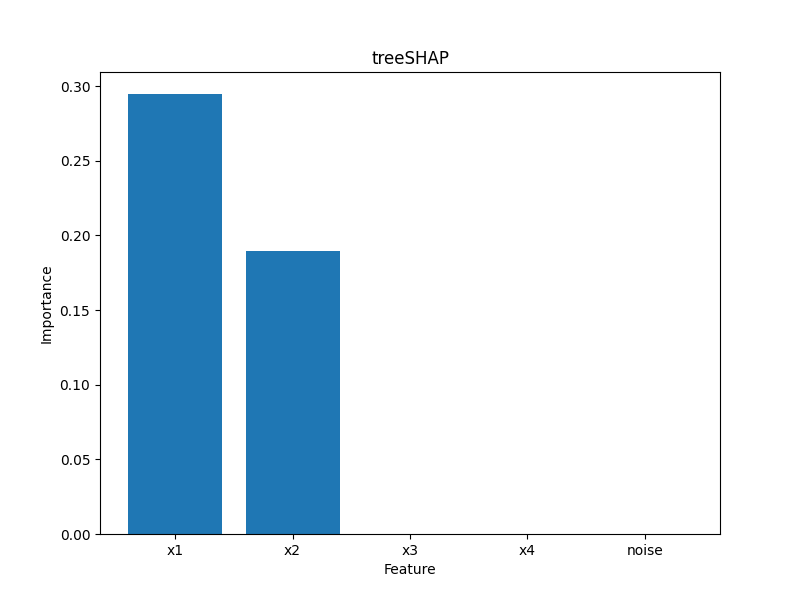
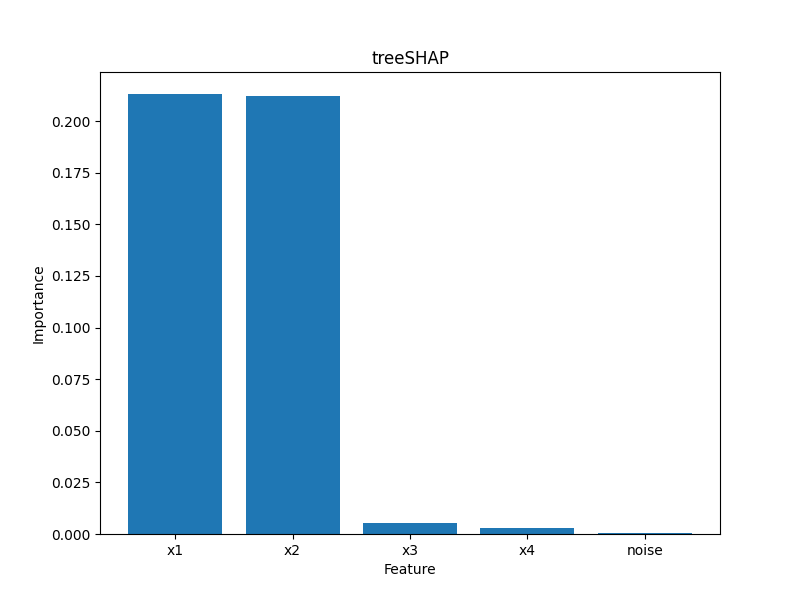
update treeSHAPRF

diff --git a/README.md b/README.md
@@ -2,6 +2,6 @@
 exact model: $$y=x_1 + x_2^2 + x_3 \times x_4$$
 ![Random Forest](figs/random_forest_gini.png)
 ![Random Forest](figs/random_forest_oob_permutation.png)
-![Information Gain](figs/information_gain.png)
-![Neural Net](figs/neural_net.png)
+<!-- ![Information Gain](figs/information_gain.png) -->
 ![treeSHAP](figs/treeSHAP.png)
+![Neural Net](figs/neural_net.png)
